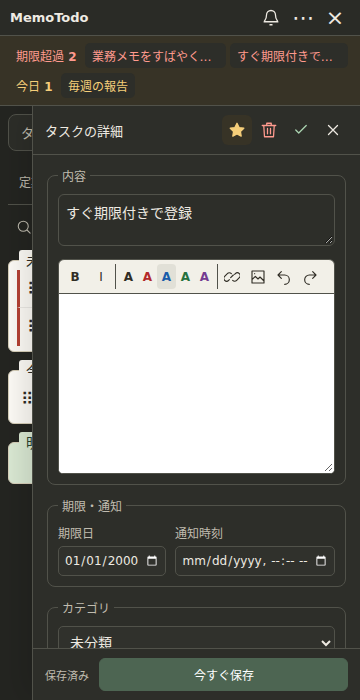
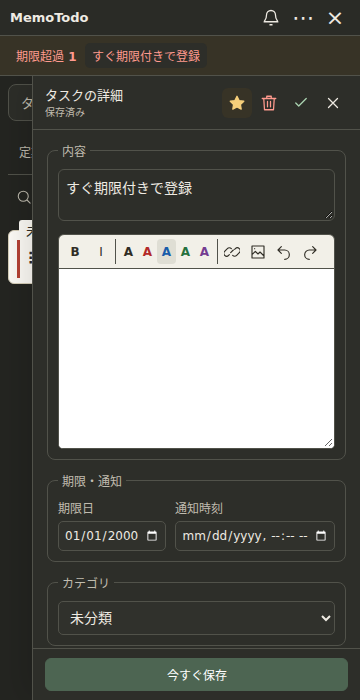
Move save status into detail heading and prepare v3.0.1

diff --git a/frontend/src/TaskDetail.tsx b/frontend/src/TaskDetail.tsx
@@ -139,7 +139,16 @@ export function TaskDetail({
   return (
     <aside className="detail task-detail" aria-label="タスクの詳細">
       <header>
-        <h2>{task.series_id ? "定期タスク" : "タスクの詳細"}</h2>
+        <div className="detail-heading">
+          <h2>{task.series_id ? "定期タスク" : "タスクの詳細"}</h2>
+          <span
+            role="status"
+            className={status.startsWith("保存失敗") ? "danger" : "muted"}
+            data-tip={status.startsWith("保存失敗") ? status : undefined}
+          >
+            {status}
+          </span>
+        </div>
         <div className="detail-tools">
           <button
             aria-label="重要"
@@ -253,12 +262,6 @@ export function TaskDetail({
           )}
       </div>
       <footer>
-        <span
-          role="status"
-          className={status.startsWith("保存失敗") ? "danger" : "muted"}
-        >
-          {status}
-        </span>
         <button
           className="primary"
           disabled={busy}

diff --git a/frontend/src/styles/todo.css b/frontend/src/styles/todo.css
@@ -1492,12 +1492,21 @@ button {
   gap: 10px;
   padding: 9px 12px;
 }
-.task-detail footer [role="status"] {
-  font-size: 11px;
-  flex: 0 1 auto;
+.detail-heading {
+  flex: 1;
+  min-width: 0;
+}
+.detail-heading [role="status"] {
+  display: block;
+  margin-top: 2px;
+  font-size: 10px;
+  line-height: 1.4;
+  overflow: hidden;
+  text-overflow: ellipsis;
+  white-space: nowrap;
 }
 .task-detail footer > .primary {
-  width: auto;
+  width: 100%;
   flex: 1;
   padding: 7px;
   font-size: 12px;

diff --git a/build/release-notes.md b/build/release-notes.md
@@ -1,11 +1,14 @@
-カテゴリごとの色付きリストを中心に、Todo・メモ・リマインダーを見直した新しいMemoTodoです。
+v3.0.0の操作・表示・通知を改善しました。
 
-- 期限が近いタスク・期限超過を上部の帯から確認できます。
-- 個別通知は小型ウィンドウで表示し、複数件を縦に並べます。他アプリのキーボードフォーカスを奪わず、確認するまで残ります。
-- 定期タスクは周期ごとに追加され、未完了分も残ります。自動追加の一時停止・再開は定期設定の一覧で切り替えられます。
-- カテゴリの配色・並び替え・一時非表示、タスクのドラッグ移動に対応しました。
-- メモの文字装飾・画像貼り付け・リンク、ウィンドウサイズとメモ欄高さの記憶に対応しています。
+- ダークモードを追加し、最小ウィンドウ幅を360pxへ縮小しました。
+- タスク登録・カテゴリ・絞り込みを整理し、一覧の星から重要を切り替えられます。
+- タスク詳細の操作を上部のアイコンにまとめ、保存状態はタイトル下へ移しました。内容・メモ、期限・通知、カテゴリの順に表示します。
+- 期限帯はグループ単位で横並びになり、幅に合わせて折り返します。
+- 通知時にタスクバーのアイコンを表示・点滅します。通知からタスクを開くと、その通知だけを閉じます。再通知の時間も選べます。
+- トレイのシングルクリックで入力用の小窓、ダブルクリックでメイン画面を開きます。
+- メモの画像・リンクをアイコン化し、編集領域の拡張と引用符付きファイルパスに対応しました。見出し・リストの作成操作を外しましたが、既存メモの内容は保持します。
+- 定期タスクの共通追加日数を新規設定の初期値に変更し、手動期限入力時の不要な通知とバックアップ復元を修正しました。
 
 Windows向けポータブル版です。ZIPを展開してMemoTodo.exeを起動してください。WebView2 Runtimeが必要です。
 
-今回は新規アプリとしてのリリースです。旧版データの読み込み・移行には対応していません。旧版のデータは変更しません。
+v3.0.0から更新する場合はアプリを完全終了し、既存のdataフォルダーを残して実行ファイルを差し替えてください。
